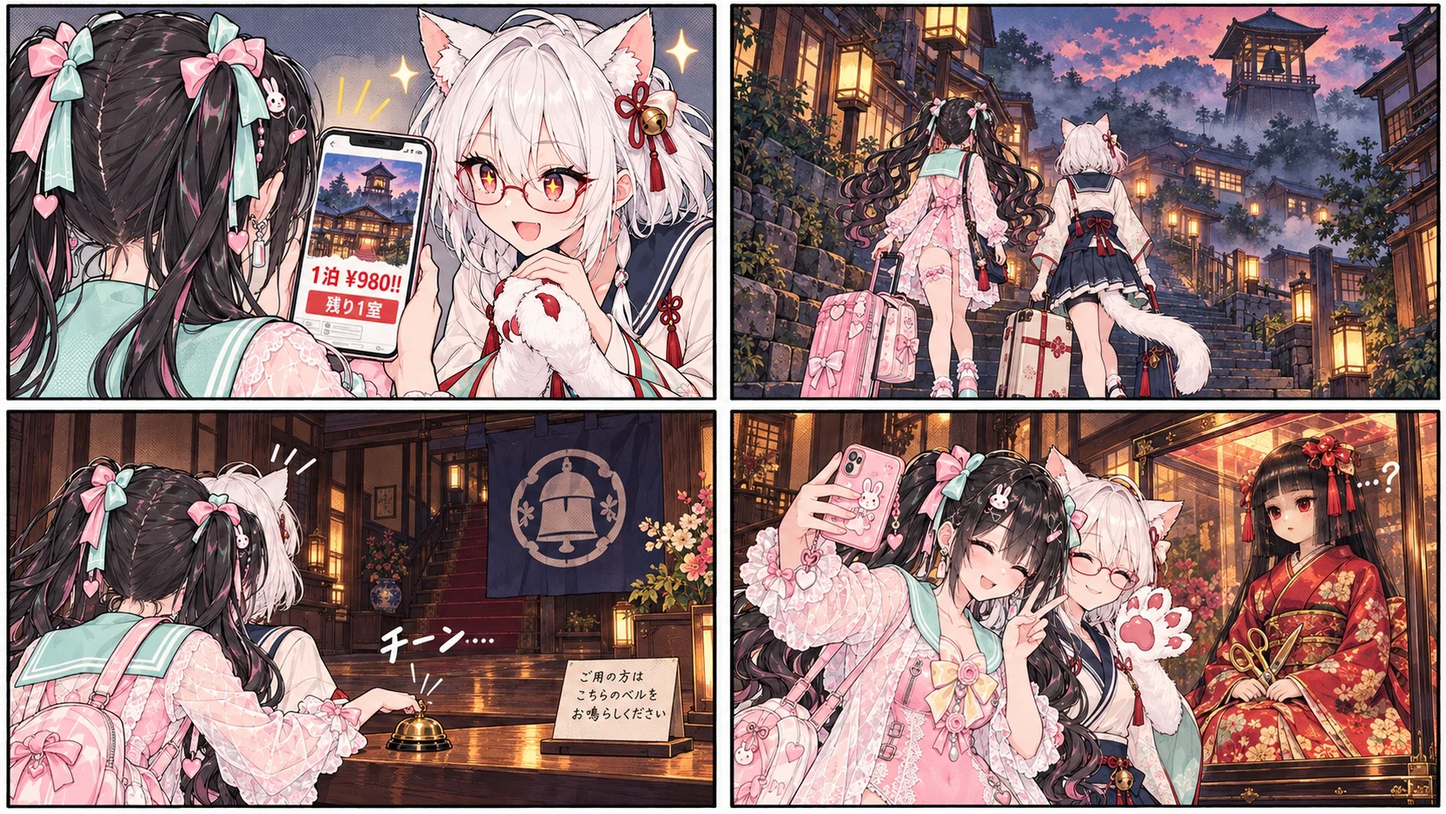
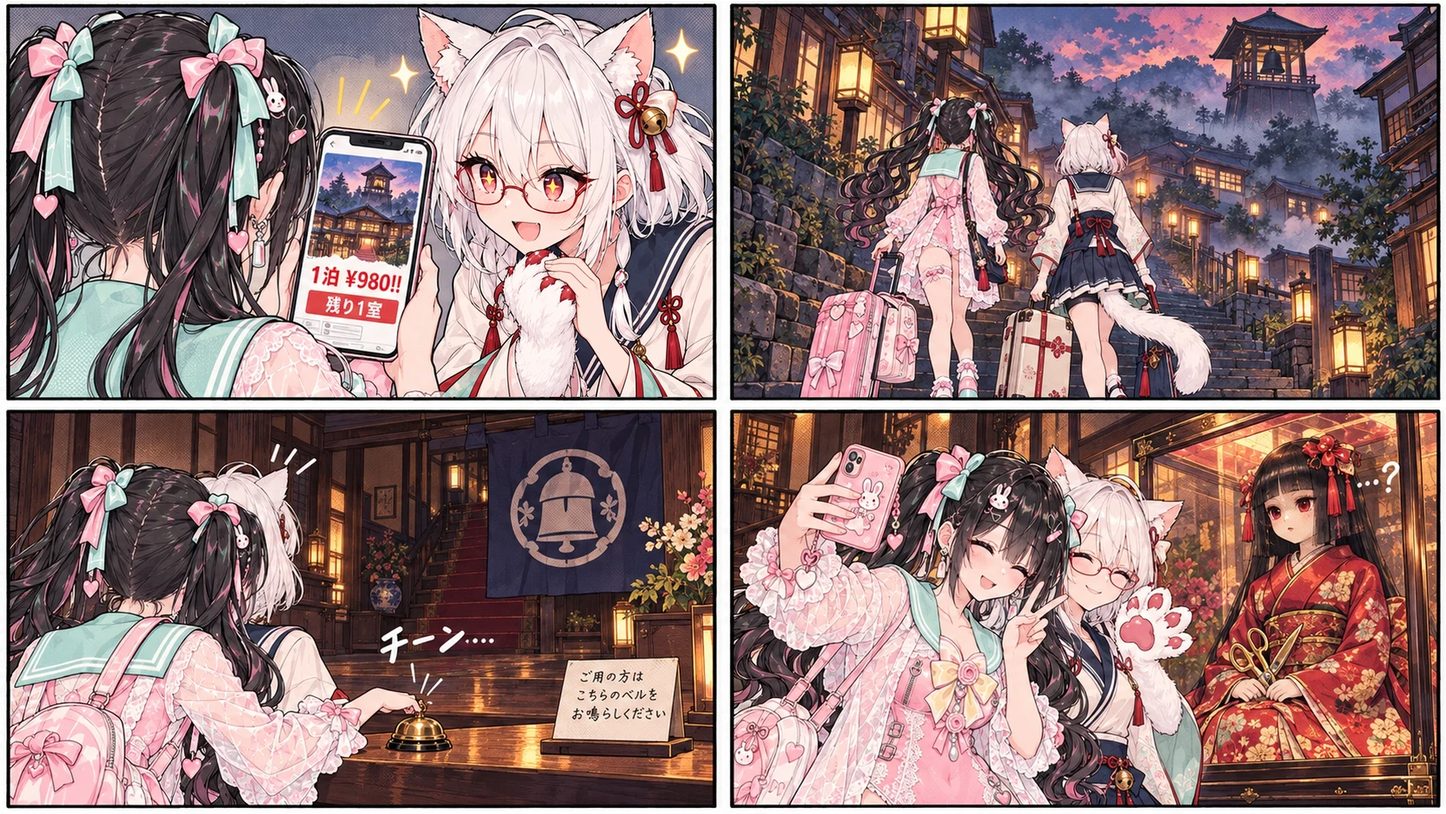
第 2 话开头第 1 格再修：上次那团毛还是两只爪的轮廓、加上人手成了三只手 → 直接要求画面里正好两只手（一只爪握拳、一只人手搭在上面）；Q 版表情按用户说的不改

Changed region(s): [[0.3125, 0.3053, 0.5, 0.4884], [0.4688, 0.2747, 0.5, 0.3053]]

diff --git a/tools/rounds/job_specs93.py b/tools/rounds/job_specs93.py
@@ -94,3 +94,19 @@ def prompt(name):
 
 JOBS = {f"R93_{n}": [(f"art/raw/r93/{n}_{v}.png", [src(n), "art/ref/cat_sheet.png", "art/ref/pink_sheet.png", "art/ref/pink_poses.png"],
                       prompt(n) + f" Try {v}.", "OPAQUE") for v in "abc"] for n in FIX}
+
+# (user 2026-10-22, on open_0 b: three hands - the lump of fur under her chin still read as two paws, with the girl's hand over them: again,
+# asking outright for exactly two hands and the second lump gone)
+REDO = ("Edit reference image 1, a panel from a full-colour manga page of a game. Output the SAME picture at the same framing: keep "
+        "everything exactly as it is (the camera, the composition, the background, the colours, the line art and screentone style, the "
+        "phone, the sparkles) and keep the white-haired cat girl's face, delighted expression, hair, glasses, clothes and position exactly "
+        "as they are (reference image 2 is her design sheet). The black-haired twin-tail girl, where she is in the picture, stays exactly "
+        "as she is (reference images 3 and 4 are her design; " + OUTFIT + "). Change ONLY her hands under her chin: there, a big lump of "
+        "white fur now looks like TWO cat paws pressed together - that is wrong, she has only ONE cat paw (her spirit power is only enough "
+        "for one hand at a time). Redraw her hands so that the picture shows EXACTLY TWO hands of hers: (1) ONE big white fluffy ghost-cat "
+        "paw with red claws, curled into a soft round fist under her chin, coming out of the wide white sleeve on the viewer's LEFT; (2) "
+        "her other hand, an ordinary girl's hand with slim pale fingers and short plain nails, coming out of the sleeve on the viewer's "
+        "RIGHT and resting over the back of that paw. No second paw, no extra hand, no other lump of fur. Do not add text, do not add "
+        "effects.")
+JOBS["R93_open_0_redo"] = [(f"art/raw/r93/open_0_{v}.png", [src("open_0"), "art/ref/cat_sheet.png", "art/ref/pink_sheet.png",
+                                                             "art/ref/pink_poses.png"], REDO + f" Try {v}.", "OPAQUE") for v in "def"]

diff --git a/tools/rounds/r93_import.py b/tools/rounds/r93_import.py
@@ -12,7 +12,9 @@ import packs  # noqa: E402
 from job_specs93 import FIX, EP, RAW, boxes, panel_box, orig  # noqa: E402
 from r53_import import put  # noqa: E402
 
-PICK = {"fountain_3": "b", "fall_2": "c", "open_0": "b"}   # (fountain b: the sleeve keeps its mint lining; fall a drew a second gun girl behind her)
+PICK = {"fountain_3": "b", "fall_2": "c", "open_0": "d"}
+# (fountain b: the sleeve keeps its mint lining; fall a drew a second gun girl behind her; open: a-c kept the two-paw lump under the girl's
+# hand - three hands (user 2026-10-22) - so d-f asked for exactly two: d; e drew her as the gun girl, f changed the whole panel)
 FEATHER = 0.05   # of her box's smaller side
 
 

diff --git a/docs/ART.md b/docs/ART.md
@@ -133,7 +133,7 @@
   - R39：NIKKE 式 HUD 效果图、Q 版装填大头、街机字（RELOAD! 等）、裂屏、R39 艺术字；R40：HUD 拆解；R41：猫娘设计字三套（seal / catbrush / sigil，`fx/gl2_*`）、序章四页整页漫画（`tools/comic_panels.py` 自动切格）；
   - R36：装填特写、气泡贴纸、序章漫画候选、Boss 按镜头的部位；R37：符箓毛笔字（`fx/fu_*`），重出被拒的漫画格；
   - R35：HUD 拆解图层、图标、符咒弹药（3 套）、装填图（每人 3 张）、Q 版表情（每人 24 个）、准星（每人 3 套 × 8 态）、射击 / 命中特效原画（`tools/rounds/r35_import.py`）。
-  - R93：猫娘两只手都画成爪的漫画格（`job_specs93.py`，导入 `r93_import.py`，做法同 R60：只裁她那块交给 Codex 把一只改回人手、只贴回她那块，总从这轮之前的原页开始 `art/raw/r93/orig_*`）：第 1 话喷泉第 4 格（用 b）、掉进坑道第 3 格（用 c，留下的爪上 Codex 重画的咒印由 `seal_fix page93_fall_1` 换成标准的）、第 2 话开头第 1 格（用 b）。
+  - R93：猫娘两只手都画成爪的漫画格（`job_specs93.py`，导入 `r93_import.py`，做法同 R60：只裁她那块交给 Codex 把一只改回人手、只贴回她那块，总从这轮之前的原页开始 `art/raw/r93/orig_*`）：第 1 话喷泉第 4 格（用 b）、掉进坑道第 3 格（用 c，留下的爪上 Codex 重画的咒印由 `seal_fix page93_fall_1` 换成标准的）、第 2 话开头第 1 格（用 d：a～c 下巴下那团毛还是两只爪的轮廓，加上人手成了三只手，d～f 直接要求画面里正好两只手；e 把她画成了地雷妹、f 整格变了）。挑图时要数手。
   - R92：第 1 话的开头和结尾两页漫画重出（`job_specs92.py`，导入 `r92_import.py`）：开头去掉门玻璃里的夫人，改成店深处有动静；结尾去掉哭和黑格，改成长舒一口气走人、远处又有动静、回头杀。带两人设定图和地雷妹的衣服描述；开头用 c（第 3 格爪子贴在玻璃上、掌心朝外，画出来的咒印 `seal_fix page92_intro_3` 只抹不贴；a 那格咒印在爪子侧面贴着背景，抹不干净），结尾用 a（`page92_end_1`）。`seal_fix.py` 新加 `stamp: false`：只抹掉画出来的咒印、不贴（侧面看不到手背的爪子）。
   - R90 / R91：第 1 话一屋一种怪的新种类（`job_specs90.py` / `job_specs91.py`，导入 `r90_import.py` / `r91_import.py`，3 × 2 六姿势表，姿势名和冰淇淋丧尸一样）：冷库的冰棍骸骨（R90，先出这一种验证）、烤炉厨房的焦糖姜饼人、坑道的蜜蛆幼虫和幼虫女王（女王用守丧之影那套站着扔东西的姿势名）、冥界的黑蜜客人（R91）。每种五个设计挑三个（女王三个挑一个）；提示词里写明那间屋子的底色，主色要和它一眼分开（2026-10-22 用户：Codex 出的一个色系区分度低）。「咬」那格常画到格子边上、切出来是一条直边：导入时测出来就用「扑」那格代替。
   - R87：画室的四个影重画（`job_specs87.py`，导入 `r87_import.py`，3 × 2 六姿势表，姿势名和 R56 一样）：要求轮廓一眼认得、大块平涂、少细节、不要噪点，每个一种主色、不都是人形（女主人 = 茶点推车、守丧 = 水母一样的黑纱、母亲 = 婴儿车、新娘 = 四脚兽）。

diff --git a/docs/PLAN.md b/docs/PLAN.md
@@ -265,7 +265,7 @@
 - [ ] **猫爪按人体结构排查**（2026-10-22 用户：咒印在爪背，按人体结构看得到爪心那面的图不该有咒印；一次只有一只手是猫爪，哪只都行，喷泉那页画了两只）：
   - [x] 登记过的 85 处咒印逐张放大看：光标 hover、grab（露着肉垫）和开场漫画第 3 格（爪子贴在玻璃上、掌心朝外）是爪心 → 只抹不贴（`seal_placements.json` `stamp: false`），其余都是爪背、没问题。
   - [x] 两只手都是爪的漫画格：第 1 话喷泉第 4 格、掉进坑道第 3 格，第 2 话开头第 1 格 → R93 只把她那块交给 Codex 把一只改回人手，贴回原页（坑道那只爪的咒印换回标准的）。
-  - [ ] HUD 的 Q 版表情（`ui/chibi_cat_*`）24 张里约 17 张两只手都是爪：改不改等用户定。
+  - [x] HUD 的 Q 版表情（`ui/chibi_cat_*`）24 张里约 17 张两只手都是爪 → 用户：Q 版大部分时候看不全，不改，也不用咒印。
 - [ ] **有叙事分量的特写改成分镜**（2026-10-21 用户看了截图：怕特写就是全塞一起；DESIGN「分镜」）：样例做了（第 2 话雨中渡廊最后一点开场「她蹚着水过来了」：空池子 → 木屐踩水 → 她的脸 → 同机位她已在池中，R82 两格插画），等用户看过再铺开：挑出其余有叙事分量的（第 1 话门变嘴、巨影钻出来；第 2 话她第一次出现、蚕醒来、被锁在土藏、丑三时的大钟…），每个写分镜、出这一刻自己的插画。
 - [ ] **研究目录逐件落地**（用户 2026-10-20：研究半天结论只是物理引擎？）：ART「用户给的参考里的手法」里的东西一件件做进游戏，不做一件就停：战斗中的镜头调度（侧倾、Boss 仰拍 + 绕半圈 + 推拉变焦；2026-10-21 做了）→ 体积光武器和死亡演出（火焰锥、分段光柱、激光墙；冲击波环、裂纹、漩涡；2026-10-21 做了光柱、火焰锥、裂纹）→ 异变整段换画风（线稿 / 双色调 / 故障 / 线框 / 像素化 + 隧道 + 拍点硬切）→ 字就是画面（遮幅黑边大字、重复铺满的音节、标签条、坏点阵字）→ 画面边缘的来袭警告、前景粒子 → 巨大的非人形 3D Boss。
 - [ ] **物理（用户 2026-10-20：同意掩体和女主动作都做，先做物理；「你现在搁我这又 mvp 偷懒了？」→ 整个游戏都要物理，不是做一个桌子的演示）**：方案第 3 件，做法在 TECH「物理」（Rapier，用户同意下载）。

diff --git a/docs/LOG.md b/docs/LOG.md
@@ -335,3 +335,5 @@
 - 用户（2026-10-22）：有的图喵娘脸对着镜头，那就露出了爪子，咒印在爪子背面，对着镜头时看不到；喷泉那张画了两只爪，设定她只有一只手变猫爪（灵力不够，一次一只）。随后更正：咒印能看到的大部分是对的，按合理的人体结构挨个排查，看不到的才改；哪只手变爪都行，但一次只一只，不是必须左手是人手。
 - 第 4 件的验证没过：冷库第一站三具冰棍雕像一直不醒——夫人之影那一站的怪推迟了 5 秒出来，叫醒它们的事件没跟着推迟（1.2 秒、2 秒就过了）→ 那一波整个推迟 5 秒。
 - 猫爪排查：登记过的 85 处咒印逐张放大看，按爪背 / 爪心分：光标 hover、grab 露着肉垫，开场漫画第 3 格爪子贴在玻璃上、掌心朝外 → 只抹掉、不贴（`stamp: false`，hover 的抹除框收到肉垫以下、不碰描边），其余都是爪背、对。两只手都是爪的：第 1 话喷泉第 4 格、掉进坑道第 3 格，第 2 话开头第 1 格（R93：只把她那块交给 Codex 把一只改回人手，贴回原页；喷泉挑 b、坑道挑 c、第 2 话开头挑 b，坑道那只留下的爪子上 Codex 重画的咒印换回标准咒印）。其余猫娘的图（战斗姿势、晃动立绘、装填、标题、选关、结算、失败、插入镜头）都是一只爪；HUD 的 Q 版表情 24 张里约 17 张两只爪，先问用户。
+- 用户（2026-10-22，附第 2 话开头那格修过的图）：3 只手……——那团毛还是两只爪的轮廓，加上新画的人手成了三只（之前只看了人手画得好不好、没数手）→ 那格再出一次，直接要求画面里正好两只手（一只爪握成拳、一只人手搭在上面），多出来的那团毛去掉；喷泉、坑道两格重新数过，都是一爪一手。
+- 用户（2026-10-22）：Q 版大部分时候看不全，Q 版没有咒印不要紧 → Q 版表情不改。
